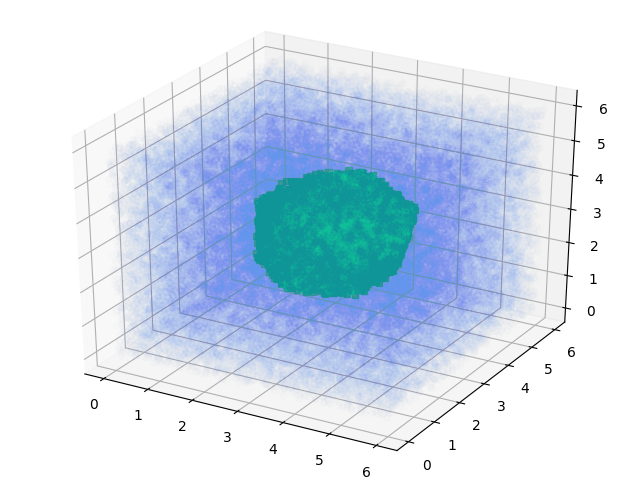
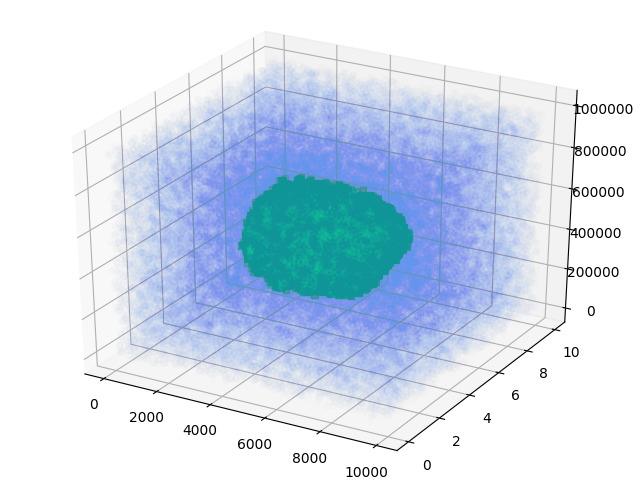
updated readme

diff --git a/testNN.py b/testNN.py
@@ -95,9 +95,9 @@ def testNeuralNetwork():
         Dense(size=1, activation='sigmoid')
     ])
 
-    xSize = 100000
-    ySize = 6
-    zSize = 6
+    xSize = 10000
+    ySize = 10
+    zSize = 1000000
     falseValues, trueValues = create3dData(numFalseValues=500, numTrueValues=300, plot=True,
                                            xSize=xSize, ySize=ySize, zSize=zSize)
     data = np.concatenate((falseValues, trueValues), axis=0)
@@ -110,7 +110,7 @@ def testNeuralNetwork():
         normalization='instance'
     )
 
-    costHistory = neuralNetwork.train(X, y, epochs=1000, learningRate=0.001, miniBatchSize=32,
+    costHistory = neuralNetwork.train(X, y, epochs=200, learningRate=0.001, miniBatchSize=32,
                                       regularization='L2', lambdaReg=0.1, decayRate=0.0000001,
                                       printCostRounds=100)
 

diff --git a/neural_network.py b/neural_network.py
@@ -186,15 +186,15 @@ class NeuralNetwork:
 
     def applyInstanceNormalizationTraining(self, X):
         self.mean = np.mean(X, axis=1, keepdims=True)
-        X -= self.mean
-        self.std = np.std(X, axis=1, keepdims=True)
-        X /= self.std
-        return X
+        X_new = X - self.mean
+        self.std = np.std(X_new, axis=1, keepdims=True)
+        X_new /= self.std
+        return X_new
 
     def applyInstanceNormalizationTest(self, X):
-        X -= self.mean
-        X /= self.std
-        return X
+        X_new = X - self.mean
+        X_new /= self.std
+        return X_new
 
     def printCost(self, costHistory, i, miniBatchSize):
         if (miniBatchSize != None):

diff --git a/README.md b/README.md
@@ -22,9 +22,12 @@ To increase the depth of the network, add more layers to the neuralNetwork objec
 
 Before training the network, you have the option to optimize to your training algorithm by calling the compile function, like below. Currently, three optimizations are supported: 'momentum', 'RMSprop', or 'adam'. It is recommended to use the 'adam' optimization here.
 
+You also have the option to add normalization to your neural network. Currently, instance normalization is the only type supported.
+
 ```
 neuralNetwork.compile(
-    optimization='adam'
+    optimization='adam',
+    normalization='instance'
 )
 ```
 
@@ -104,14 +107,14 @@ This is the end result. If the example lies in the blue area, then it will be cl
 
 # Example using 3D:
 
-Below is the plot of the dataset I'll be using for this example. The 'true' values will have a x, y and z between 2-4. So the perfect solution would be a perfect 2\*2\*2 cube in the middle of the 3d graph.
+Below is the plot of the dataset I'll be using for this example. X will range between 0-10000, y will range from 0-10, and z will range from 0-1000000. If a data example lies in middle 33% for each axis, it will be labeled as true. So if the x is between 3333 and 6666, the y is between 3 and 6, and z is between 333333 and 666666, then that example will be labed as true, and will be shown as a green square on the plot below.
 
 ![Data 3d](https://github.com/jonathonjb/NeuralNetworkLibraryFromScratch/blob/main/images/simpleData3d.png)
 
-Now I train the data. Here, I'm using the mini-batch gradient descent with 32 batches, 'adam' optimization, and 'L2' regularization. The cost history won't be smooth due to the fact that we're using the mini-batch gradient descent, however using the mini-batch gradient descent combined with 'adam' optimization, the gradient descent algorithm will converge faster. I also used L2 regularization to make the curve a bit smoother than it would have if no regularization was used. 
+Now, I train the data using my neural network. The neural network has three layers, the first layers, or the hidden layers will contain 16 neurons, and will use the ReLU activation function, and the third layer will have only one neuron, which uses the sigmoid activation function. During training I'll be using the mini-batch gradient descent with 32-examples batches, 'adam' optimization, 'L2' regularization, and instance normalization. The cost history won't be smooth due to the fact that we're using the mini-batch gradient descent, however using the mini-batch gradient descent combined with 'adam' optimization, plus using instance normalization, the gradient descent algorithm will converge much faster. I also used L2 regularization to make the curve a bit smoother than it would have been if no regularization was used. 
 
 ![Cost history 3d](https://github.com/jonathonjb/NeuralNetworkLibraryFromScratch/blob/main/images/costHistory3d.png)
 
-And this is what the decision boundary looks like for the end result.
+And this is what the decision boundary looks like.
 
 ![End result 3d](https://github.com/jonathonjb/NeuralNetworkLibraryFromScratch/blob/main/images/endResult3d.png)
